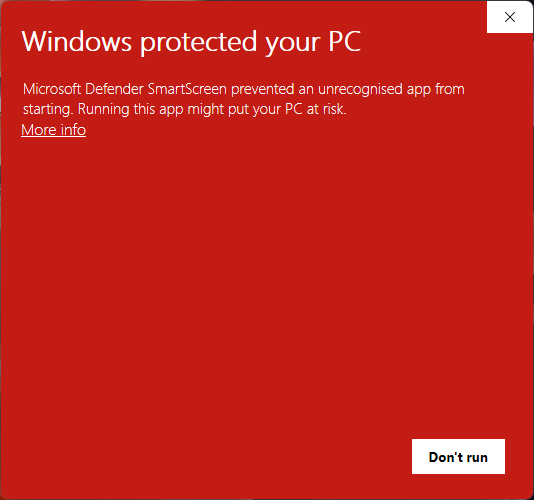
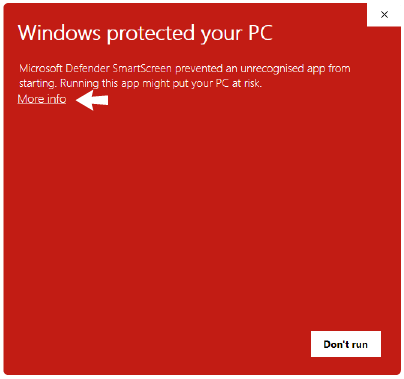
updated readme

Changed region(s): [[0.0, 0.0, 1.0, 1.0], [0.7723, 0.8707, 0.9505, 0.9578]]

diff --git a/README.md b/README.md
@@ -101,35 +101,37 @@ Since this app is not signed, you might need to trust authors in order to open/ 
 
 ##### Windows
 
-1. Download the latest [installer](https://github.com/MARE-Madeira-IT/GeoFrameX-releases/releases/download/v1.0.0/GeoFrameX.exe)
-2. Execute it and accept
-   ```sh
-   git clone https://github.com/github_username/repo_name.git
-   ```
-3. Install NPM packages
-   ```sh
-   npm install
-   ```
-4. Enter your API in `config.js`
-   ```js
-   const API_KEY = 'ENTER YOUR API';
-   ```
-5. Change git remote url to avoid accidental pushes to base project
-   ```sh
-   git remote set-url origin github_username/repo_name
-   git remote -v # confirm the changes
-   ```
+1. Download the latest [installer](https://github.com/MARE-Madeira-IT/GeoFrameX-releases/releases/latest/download/GeoFrameX.exe)
+2. Open it (it can be without administrator rights)
+3. Click on ```More info```
+[![Windows step 1][windows-1]]()
+4. Click on ```Run anyway```
+[![Windows step 2][windows-2]]()
+5. Follow the installer steps
 
-<p align="right">(<a href="#readme-top">back to top</a>)</p>
+##### MacOS
 
-
+1. Download the latest [installer](https://github.com/MARE-Madeira-IT/GeoFrameX-releases/releases/latest/download/GeoFrameX.dmg)
+2. Open it and drag GeoFrameX into the ```Applications```
+[![MacOS step 2][macos-2]]()
+3. Click on ```Cancel```
+[![MacOS step 3][macos-3]]()
+4. Open ```System Settings...```
+[![MacOS step 4][macos-4]]()
+5. Go to ```Privacy & Security```
+[![MacOS step 5][macos-5]]()
+6. Click on ```Open Anyway``` and enter your password in the popup
+[![MacOS step 6][macos-6]]()
+7. Click on ```Open``` to confirm
+[![MacOS step 7][macos-7]]()
 
 <!-- USAGE EXAMPLES -->
 ## Usage
 
-Use this space to show useful examples of how a project can be used. Additional screenshots, code examples and demos work well in this space. You may also link to more resources.
-
-_For more examples, please refer to the [Documentation](https://example.com)_
+1. Choose video file and gps file.
+2. Insert the time difference from the text file to the video. (Video time: 16:37:49; GPS file first log: 15:38:04; This means that the time difference is: 15:38:04 - 16:37:49 = - 01:00:15, it took 15 seconds between starting the video and starting to log the gps file, which means that this 15 seconds are disposable. Then, the value with insert is - 01:00:00).
+3. Choose the number of seconds between each frame. A smaller number means a larger number of pictures and a higher processing time.
+4. Click on ```Generate images``` to start processing. When the program finishes processing it should open the output directory with the processed files.
 
 
 <!-- ROADMAP -->
@@ -189,6 +191,15 @@ Use this space to list resources you find helpful and would like to give credit 
 [linkedin-shield]: https://img.shields.io/badge/-LinkedIn-black.svg?style=for-the-badge&logo=linkedin&colorB=555
 [linkedin-url]: https://linkedin.com/in/othneildrew
 [product-screenshot]: images/application.png
+[windows-1]: images/windows-1.png
+[windows-2]: images/windows-2.png
+
+[macos-2]: images/macos-2.gif
+[macos-3]: images/macos-3.png
+[macos-4]: images/macos-4.png
+[macos-5]: images/macos-5.png
+[macos-6]: images/macos-6.png
+[macos-7]: images/macos-7.png
 
 [React.js]: https://img.shields.io/badge/React-20232A?style=for-the-badge&logo=react&logoColor=61DAFB
 [React-url]: https://reactjs.org/
